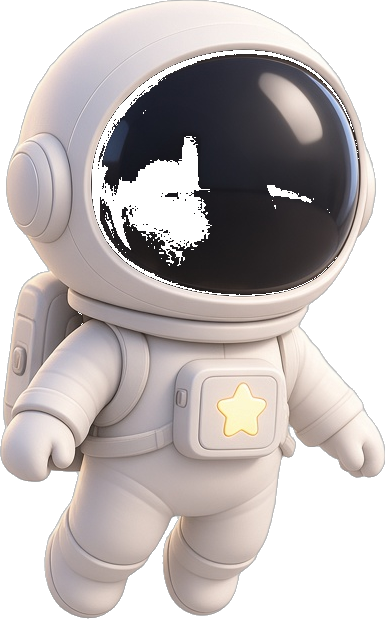
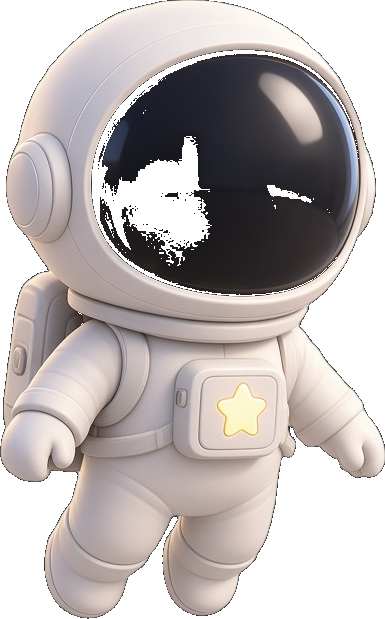
fix: 아바타 불투명·돌 구멍 제거·앉기 좌우 시야
스프라이트 알파를 이진 불투명으로 굳히고, 소행성 중앙 구멍(투명+내부
icosahedron)을 암석 텍스처로 채운 뒤, 포드 의자 좌/우 뱅크별 앉기
카메라를 구분한다.

diff --git a/src/components/cosmic/PodInterior.tsx b/src/components/cosmic/PodInterior.tsx
@@ -26,6 +26,7 @@ const PEER_SCALE = 2.7;
 const SIT_REACH = 1.75;
 
 type SitVista = "earth" | "sun";
+type SitSide = "left" | "right";
 
 type Seat = {
   id: string;
@@ -34,17 +35,19 @@ type Seat = {
   yaw: number;
   sitY: number;
   facing: number;
-  /** Fullscreen sit look — opposite (+Z) seats face Earth; window-side (−Z) face sun */
+  /** Fullscreen sit look — opposite (+Z) → Earth; window (−Z) → sun */
   vista: SitVista;
+  /** Left/right chair bank — biases sit camera */
+  side: SitSide;
 };
 
 /** Chairs at edges — walkable through (no furniture collision) */
 const SEATS: Seat[] = [
-  { id: "c0", x: -3.7, z: 2.85, yaw: 0.45, sitY: 0.32, facing: 1, vista: "earth" },
-  { id: "c1", x: -1.85, z: 3.35, yaw: 0.08, sitY: 0.32, facing: 1, vista: "earth" },
-  { id: "c2", x: 3.45, z: 2.7, yaw: -0.55, sitY: 0.32, facing: -1, vista: "earth" },
-  { id: "c3", x: 1.85, z: -3.35, yaw: Math.PI * 0.9, sitY: 0.32, facing: 1, vista: "sun" },
-  { id: "c4", x: -3.35, z: -3.2, yaw: Math.PI * 1.1, sitY: 0.32, facing: -1, vista: "sun" },
+  { id: "c0", x: -3.7, z: 2.85, yaw: 0.45, sitY: 0.32, facing: 1, vista: "earth", side: "left" },
+  { id: "c1", x: -1.85, z: 3.35, yaw: 0.08, sitY: 0.32, facing: 1, vista: "earth", side: "left" },
+  { id: "c2", x: 3.45, z: 2.7, yaw: -0.55, sitY: 0.32, facing: -1, vista: "earth", side: "right" },
+  { id: "c3", x: 1.85, z: -3.35, yaw: Math.PI * 0.9, sitY: 0.32, facing: 1, vista: "sun", side: "right" },
+  { id: "c4", x: -3.35, z: -3.2, yaw: Math.PI * 1.1, sitY: 0.32, facing: -1, vista: "sun", side: "left" },
 ];
 
 /** Soft room edge only — furniture/chairs are pass-through */
@@ -107,6 +110,7 @@ export type SitHud = {
   sitting: boolean;
   seatLabel: string | null;
   vista: SitVista;
+  side: SitSide;
 };
 
 type WalkerProps = {
@@ -119,9 +123,15 @@ type WalkerProps = {
 
 /**
  * Full-screen sit vista — same lounge backdrop + celestial assets.
- * Opposite seats → Earth; window/sun-side seats → sun corridor.
+ * Opposite seats → Earth; window seats → sun; left/right bank shifts angle.
  */
-function SitSpaceView({ vista }: { vista: SitVista }) {
+function SitSpaceView({
+  vista,
+  side,
+}: {
+  vista: SitVista;
+  side: SitSide;
+}) {
   const look = useRef(new THREE.Vector3());
   const sunBias = useMemo(
     () => EARTH_POS.clone().lerp(SUN_POS, 0.42),
@@ -131,34 +141,36 @@ function SitSpaceView({ vista }: { vista: SitVista }) {
     () => EARTH_POS.clone().add(new THREE.Vector3(0, 2, 4)),
     [],
   );
+  const sideSign = side === "left" ? -1 : 1;
 
   useFrame(({ clock, camera }) => {
     const t = clock.elapsedTime;
     if (vista === "earth") {
-      // Hover near lounge, looking at Earth billboard
-      const yaw = -0.15 + Math.sin(t * 0.035) * 0.2;
-      const pitch = -0.18 + Math.sin(t * 0.04) * 0.05;
-      const dist = 22 + Math.sin(t * 0.03) * 2;
+      // Left bank looks past Earth from −X; right bank from +X
+      const yaw = sideSign * 0.95 + Math.sin(t * 0.035) * 0.14;
+      const pitch = -0.14 + Math.sin(t * 0.04) * 0.05;
+      const dist = 26 + Math.sin(t * 0.03) * 2;
       camera.position.set(
-        EARTH_POS.x + Math.sin(yaw) * dist * 0.35 + 6,
-        EARTH_POS.y + 8 + Math.sin(t * 0.05) * 1.5,
+        EARTH_POS.x + Math.sin(yaw) * dist * 0.7 + sideSign * 14,
+        EARTH_POS.y + 6.5 + Math.sin(t * 0.05) * 1.2,
         EARTH_POS.z + Math.cos(yaw) * dist + 10,
       );
       look.current.copy(earthFocus);
-      look.current.x += Math.sin(t * 0.04) * 1.5;
-      look.current.y += Math.cos(t * 0.03) * 1.2;
+      look.current.x += sideSign * 7 + Math.sin(t * 0.04) * 1.0;
+      look.current.y += Math.cos(t * 0.03) * 1.0;
     } else {
-      const yaw = t * 0.028 + 0.6;
-      const pitch = 0.1 + Math.sin(t * 0.045) * 0.06;
-      const dist = 16 + Math.sin(t * 0.033) * 2.5;
+      // Sun window: left bank orbits −side, right bank +side
+      const yaw = t * 0.022 + Math.PI * 0.5 + sideSign * 1.15;
+      const pitch = 0.08 + Math.sin(t * 0.045) * 0.05;
+      const dist = 18 + Math.sin(t * 0.033) * 2.2;
       camera.position.set(
-        Math.sin(yaw) * Math.cos(pitch) * dist + Math.sin(t * 0.02) * 1.2,
-        4.5 + Math.sin(t * 0.05) * 2.2,
+        Math.sin(yaw) * Math.cos(pitch) * dist + sideSign * 7,
+        5.2 + Math.sin(t * 0.05) * 2.0,
         Math.cos(yaw) * Math.cos(pitch) * dist,
       );
       look.current.copy(sunBias);
-      look.current.x += Math.sin(t * 0.04) * 6;
-      look.current.y += Math.cos(t * 0.035) * 4;
+      look.current.x += sideSign * 14 + Math.sin(t * 0.04) * 4;
+      look.current.y += Math.cos(t * 0.035) * 3.5;
     }
     camera.lookAt(look.current);
     camera.near = 0.05;
@@ -208,6 +220,7 @@ function PodWalker({
   const sitting = useRef(false);
   const seatId = useRef<string | null>(null);
   const vistaRef = useRef<SitVista>("sun");
+  const sideRef = useRef<SitSide>("left");
   const publishAcc = useRef(0);
   const lastSitReq = useRef(0);
   const lastStandReq = useRef(0);
@@ -225,6 +238,7 @@ function PodWalker({
     sitting.current = true;
     seatId.current = seat.id;
     vistaRef.current = seat.vista;
+    sideRef.current = seat.side;
     pos.current.set(seat.x, seat.sitY, seat.z);
     setFacing(seat.facing);
     setState("rest");
@@ -236,6 +250,7 @@ function PodWalker({
     sitting.current = false;
     seatId.current = null;
     vistaRef.current = "sun";
+    sideRef.current = "left";
     if (seat) {
       // Step toward room center — no collider to snag on
       const ox = -Math.sin(seat.yaw) * 0.85;
@@ -377,11 +392,16 @@ function PodWalker({
       nearSeat: Boolean(near) || sitting.current,
       sitting: sitting.current,
       seatLabel: sitting.current
-        ? "앉아 있어요"
+        ? sideRef.current === "left"
+          ? "왼쪽 시야"
+          : "오른쪽 시야"
         : near
-          ? "의자 근처"
+          ? near.seat.side === "left"
+            ? "왼쪽 의자"
+            : "오른쪽 의자"
           : null,
       vista: sitting.current ? vistaRef.current : near?.seat.vista ?? "sun",
+      side: sitting.current ? sideRef.current : near?.seat.side ?? "left",
     });
 
     publishAcc.current += clamped;
@@ -662,11 +682,16 @@ function LoungeScene({
   onSeatTap,
   sitting,
   vista,
-}: WalkerProps & { onSeatTap: (id: string) => void; vista: SitVista }) {
+  side,
+}: WalkerProps & {
+  onSeatTap: (id: string) => void;
+  vista: SitVista;
+  side: SitSide;
+}) {
   return (
     <>
       {sitting ? (
-        <SitSpaceView vista={vista} />
+        <SitSpaceView vista={vista} side={side} />
       ) : (
         <LoungeRoom onSeatTap={onSeatTap} />
       )}
@@ -694,6 +719,7 @@ export function PodInterior({ visible, onExit, onSittingChange }: Props) {
     sitting: false,
     seatLabel: null,
     vista: "sun",
+    side: "left",
   });
   const [sitRequest, setSitRequest] = useState(0);
   const [standRequest, setStandRequest] = useState(0);
@@ -717,7 +743,8 @@ export function PodInterior({ visible, onExit, onSittingChange }: Props) {
       prev.nearSeat === hud.nearSeat &&
       prev.sitting === hud.sitting &&
       prev.seatLabel === hud.seatLabel &&
-      prev.vista === hud.vista
+      prev.vista === hud.vista &&
+      prev.side === hud.side
         ? prev
         : hud,
     );
@@ -760,6 +787,7 @@ export function PodInterior({ visible, onExit, onSittingChange }: Props) {
           onSeatTap={onSeatTap}
           sitting={sitting}
           vista={sitHud.vista}
+          side={sitHud.side}
         />
       </Canvas>
 

diff --git a/src/components/cosmic/Astronaut.tsx b/src/components/cosmic/Astronaut.tsx
@@ -40,6 +40,8 @@ export function Astronaut({
     const tex = textures[idx] ?? textures[0];
     tex.colorSpace = THREE.SRGBColorSpace;
     tex.wrapS = tex.wrapT = THREE.ClampToEdgeWrapping;
+    // Premultiply-ish: avoid dark fringe; interior is baked opaque in PNGs
+    tex.premultiplyAlpha = false;
     tex.needsUpdate = true;
     return tex;
   }, [state, textures]);
@@ -121,10 +123,13 @@ export function Astronaut({
             <meshBasicMaterial
               map={map}
               transparent
-              opacity={self ? 1 : 0.92}
-              depthWrite={false}
+              alphaTest={0.6}
+              opacity={1}
+              depthWrite
+              depthTest
               side={THREE.DoubleSide}
               toneMapped={false}
+              alphaToCoverage={false}
             />
           </mesh>
           {/* Tiny motion cue chevron when climbing/diving */}

diff --git a/src/components/cosmic/LoungeObjects.tsx b/src/components/cosmic/LoungeObjects.tsx
@@ -382,22 +382,9 @@ export function LoungeObjects() {
             position={[0, 0, 0]}
             size={s * 1.15}
             renderOrder={3}
-            alphaTest={0.45}
+            alphaTest={0.5}
             depthWrite
           />
-          <mesh
-            rotation={[0.4 + i * 0.2, 0.6 + i * 0.15, 0.1]}
-            scale={s * 0.28}
-            position={[0, -0.05, 0.05]}
-          >
-            <icosahedronGeometry args={[1, 0]} />
-            <meshStandardMaterial
-              color="#3a3a40"
-              roughness={0.95}
-              metalness={0.05}
-              flatShading
-            />
-          </mesh>
         </group>
       ))}
     </group>
